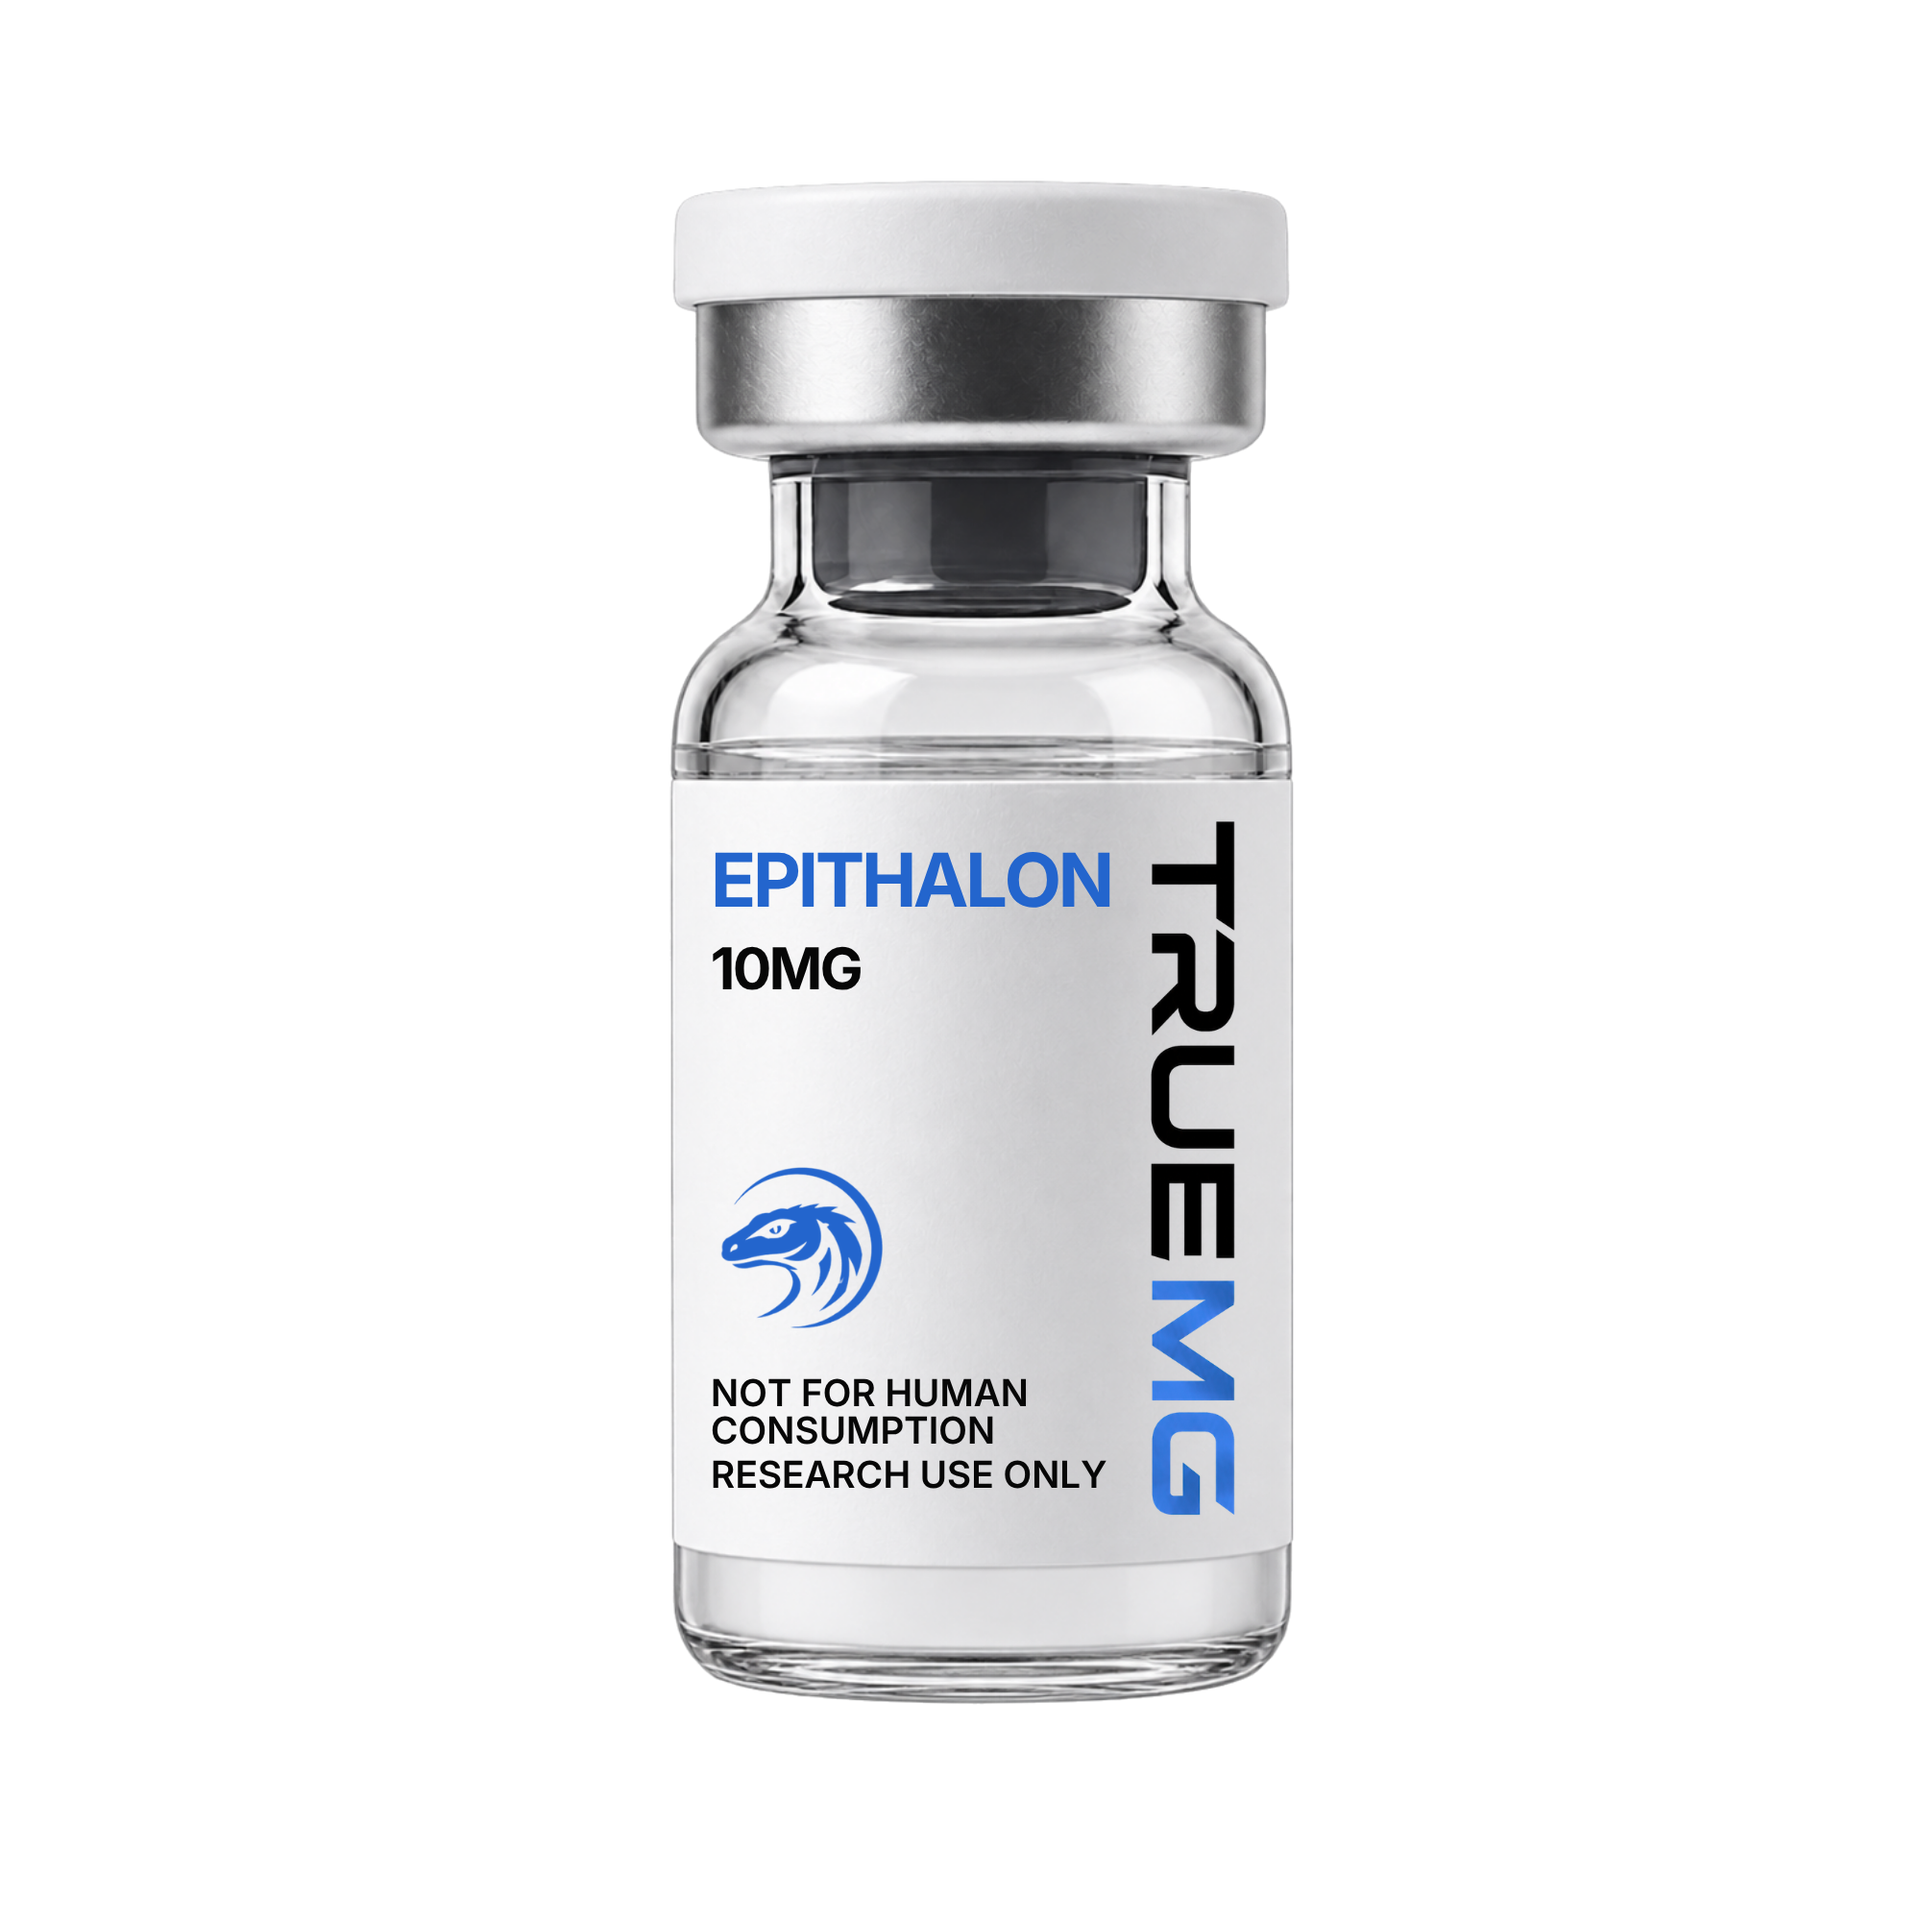
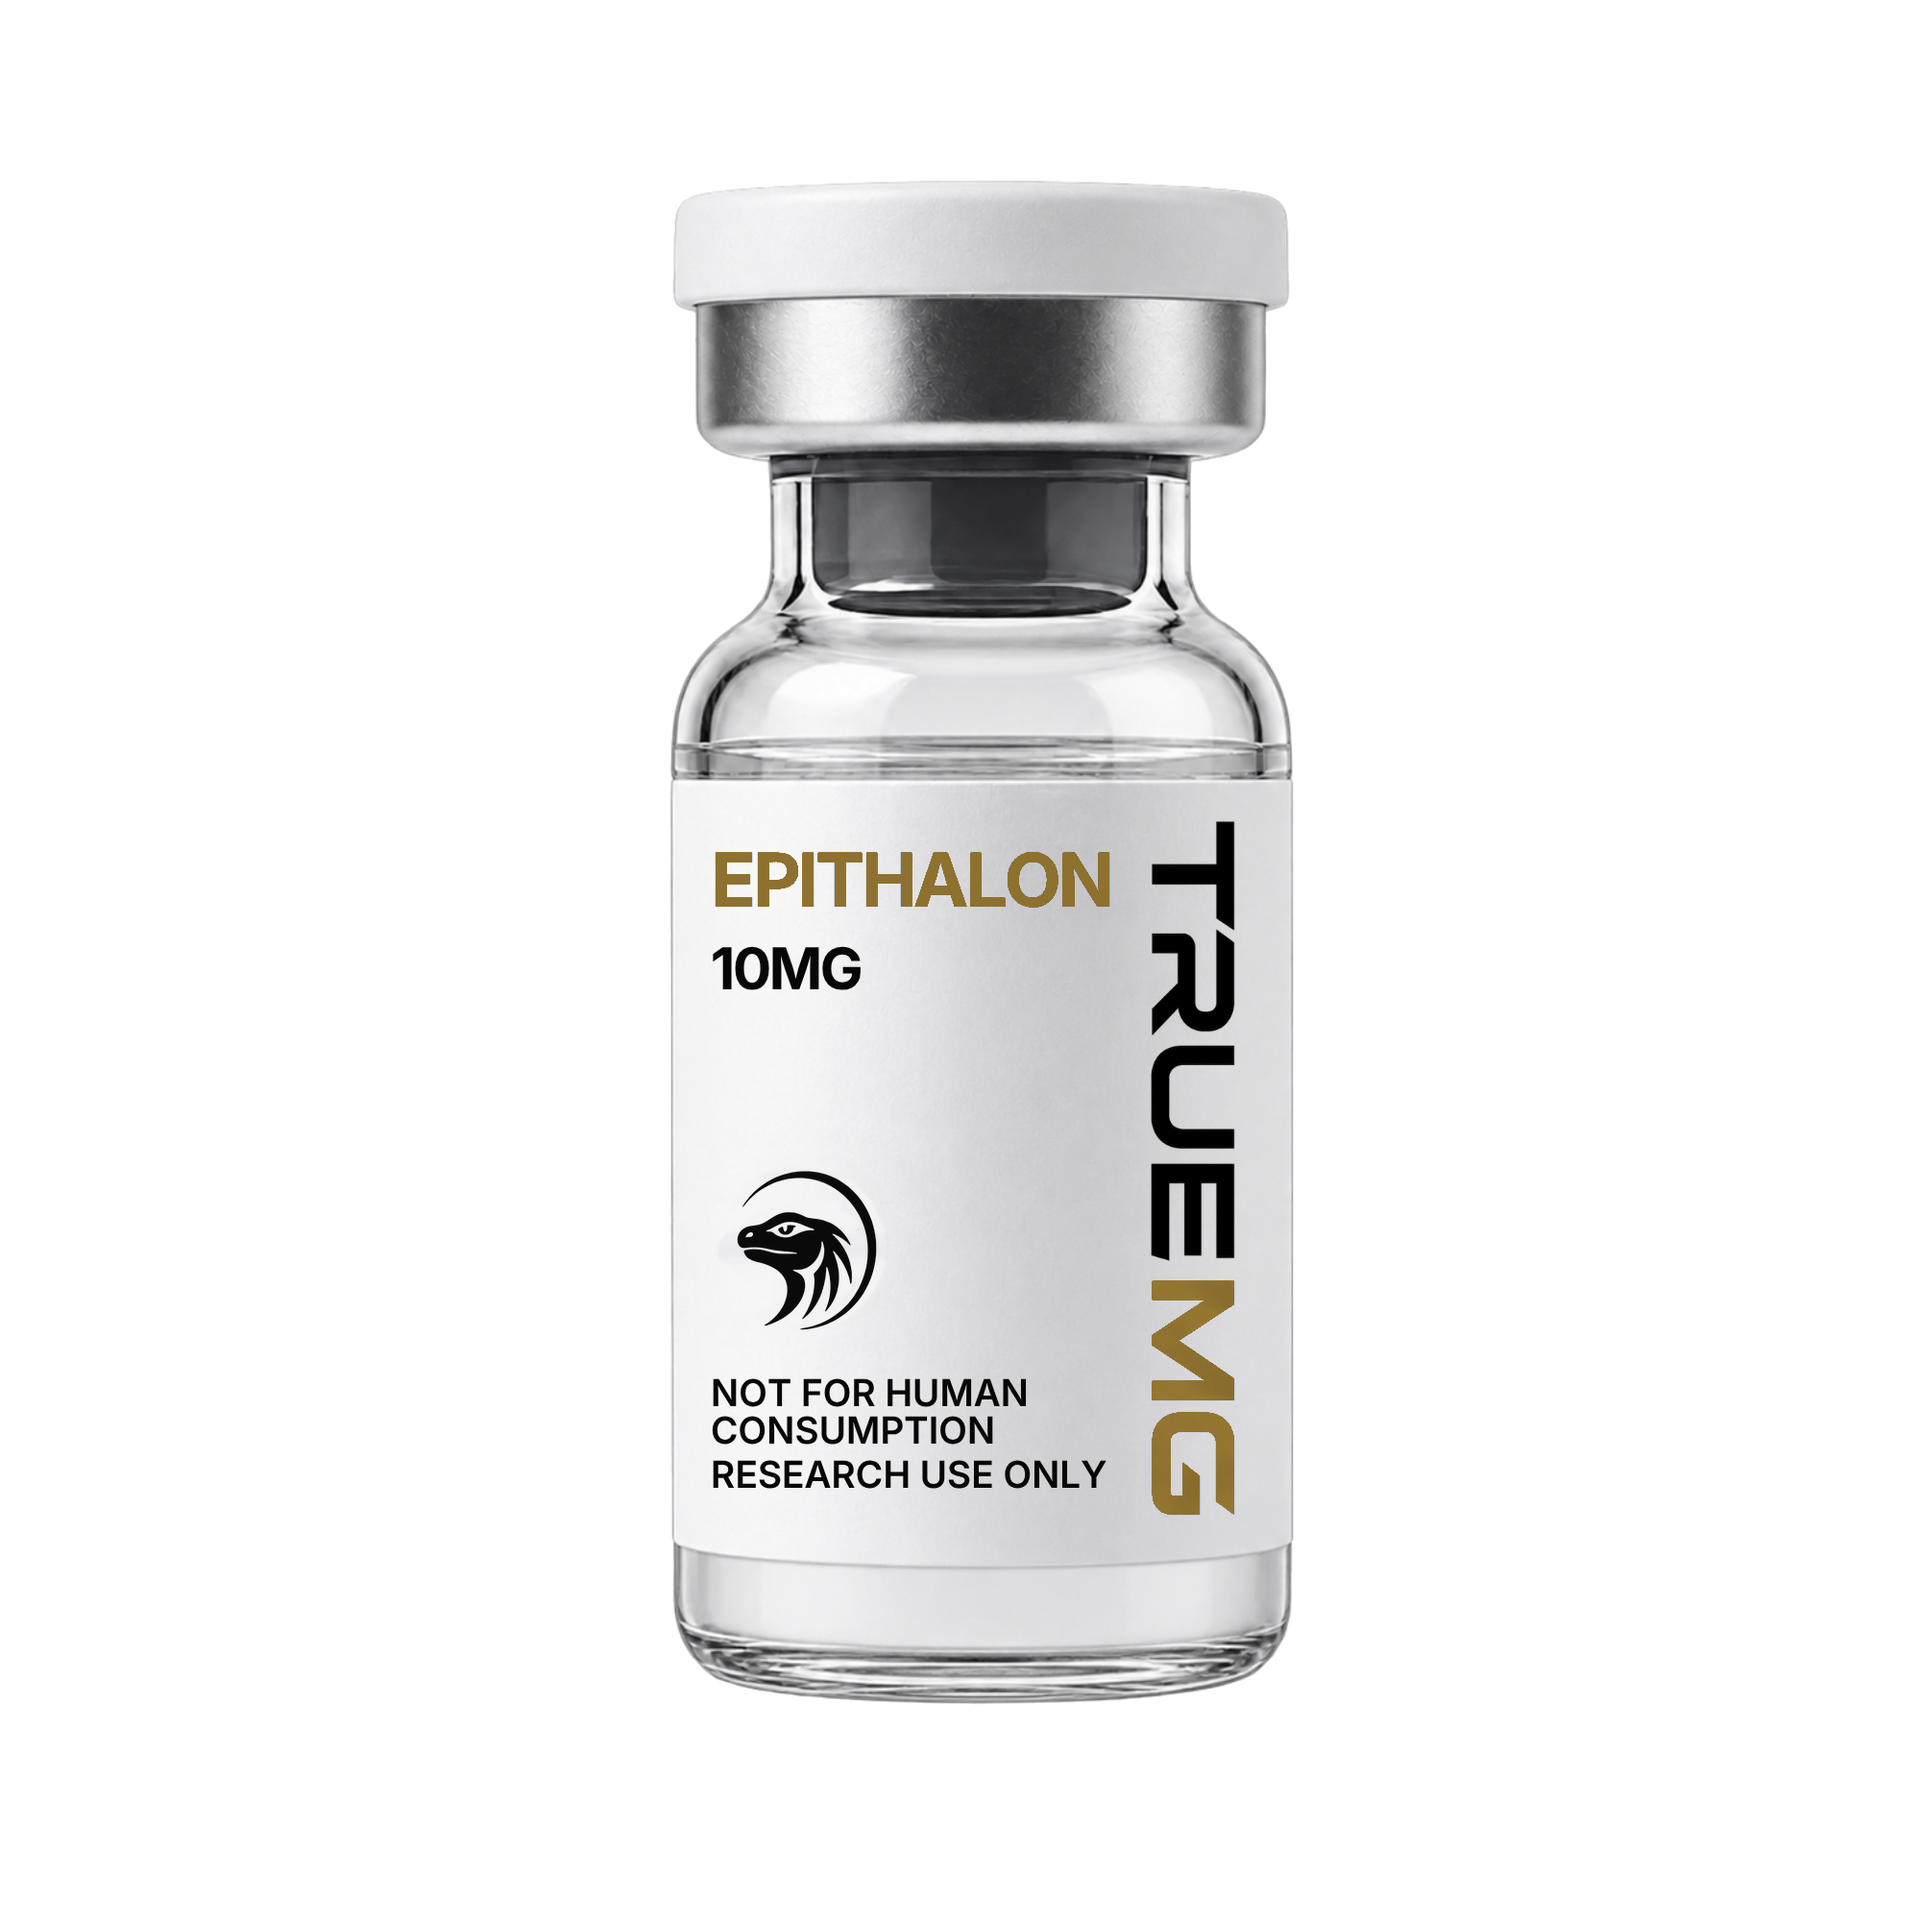
Strip the old blue brand off all 17 vial labels
The cutout pass removed the white background and left the label artwork
untouched, so every vial still carried the blue product name, the blue MG
and the old blue dragon. Shipping that was the miss; this fixes it.

`rebrand.py` recolours the blue type to #9C7C34, the brand's gold for a
paper ground, preserving each pixel's lightness so anti-aliased letter
edges stay smooth. It erases the old dragon by reconstructing its pixels
row by row from the label stock either side — the label carries a soft
vertical gradient, so a flat median fill leaves a visible rectangle — then
feathers the seam. The new Gila mark is rendered from the logo SVG and
dropped into the space the old one held.

Verified: zero pixels matching the brand blue survive in any of the 17.

Recorded with it, because it matters more than the retouch: this fixes
the images on the website, not the labels on the bottles. If physical
vials are already printed in blue, the site would show a product that
does not match what ships — worse than an off-brand photo. And the real
deliverable is a label design file set for the actual die line, not a
retouched mockup. Both are owner decisions, neither is an agent job.

Claude-Session: https://claude.ai/code/session_01GVck48CzMY6cqm4QCmkhM1

Changed region(s): [[0.372, 0.434, 0.589, 0.496], [0.589, 0.651, 0.651, 0.806], [0.372, 0.589, 0.465, 0.713]]

diff --git a/truemg/assets/vials/rebrand.py b/truemg/assets/vials/rebrand.py
@@ -1,0 +1,65 @@
+import sys, os
+import numpy as np
+from scipy import ndimage
+from PIL import Image, ImageFilter
+
+GOLD_DEEP = np.array([156,124,52], float)   # #9C7C34 — the brand's accent ON PAPER
+LIZARD_BOX = (725, 1185, 950, 1420)         # old mark on the 2000px label, measured
+
+def blue_mask(a):
+    r,g,b = a[:,:,0].astype(int), a[:,:,1].astype(int), a[:,:,2].astype(int)
+    # the brand blue is strongly B-dominant; white, black and grey are not
+    return (b - r > 45) & (b - g > 25) & (b > 90)
+
+def rebrand(path, mark_img):
+    im  = Image.open(path).convert("RGBA")
+    a   = np.asarray(im).astype(np.uint8).copy()
+    rgb = a[:,:,:3]
+    blue = blue_mask(rgb)
+
+    x0,y0,x1,y1 = LIZARD_BOX
+    inbox = np.zeros(blue.shape, bool); inbox[y0:y1, x0:x1] = True
+
+    # 1. recolour the blue TYPE (product name, the MG) to the paper-ground gold,
+    #    keeping each pixel's own lightness so anti-aliased edges stay smooth
+    type_blue = blue & ~inbox
+    if type_blue.any():
+        lum = rgb[type_blue].astype(float).max(axis=1, keepdims=True) / 255.0
+        a[:,:,:3][type_blue] = np.clip(GOLD_DEEP * (0.55 + 0.45*lum), 0, 255).astype(np.uint8)
+
+    # 2. erase the old dragon. The label carries a soft vertical gradient, so a flat
+    #    median fill leaves a visible patch — reconstruct it row by row instead.
+    patch = rgb[y0:y1, x0:x1].copy()
+    oldmark = blue[y0:y1, x0:x1]
+    if oldmark.any():
+        grow = ndimage.binary_dilation(oldmark, iterations=4)
+        clean = ~grow
+        glob = (np.median(patch[clean].reshape(-1,3), axis=0)
+                if clean.any() else np.array([246,246,247], float))
+        for yy in range(patch.shape[0]):
+            row_clean = clean[yy]
+            if not grow[yy].any():
+                continue
+            src = patch[yy][row_clean]
+            fill = np.median(src, axis=0) if src.shape[0] >= 8 else glob
+            patch[yy][grow[yy]] = fill.astype(np.uint8)
+        # feather the seam so the reconstruction does not read as a rectangle
+        sm = np.asarray(Image.fromarray(patch).filter(ImageFilter.GaussianBlur(2.5))).astype(float)
+        w  = ndimage.gaussian_filter(grow.astype(float), 3.0)[..., None]
+        patch = np.clip(patch*(1-w) + sm*w, 0, 255).astype(np.uint8)
+        a[y0:y1, x0:x1, :3] = patch
+
+    # 3. drop the new mark into the space the old one occupied
+    out = Image.fromarray(a, "RGBA")
+    bw, bh = x1-x0, y1-y0
+    m = mark_img.resize((int(bw*0.94), int(bh*0.94)), Image.LANCZOS)
+    out.alpha_composite(m, (x0 + (bw-m.width)//2, y0 + (bh-m.height)//2))
+    return out
+
+if __name__ == "__main__":
+    D=os.path.dirname(os.path.abspath(__file__)); os.chdir(D)
+    mark = Image.open("mark-ink-600.png").convert("RGBA")
+    os.makedirs("cut/brand", exist_ok=True)
+    for f in sys.argv[1:]:
+        rebrand("cut/out/"+f, mark).save("cut/brand/"+f)
+        print("rebranded", f)

diff --git a/truemg/assets/vials/README.md b/truemg/assets/vials/README.md
@@ -48,3 +48,41 @@ It delivers **"clean images without white backdrops"**. It does not deliver
 is the next step and it is CSS: a cast shadow, a few degrees of rotation, a
 hover lift, a gold rim light. That works on these files now that they are
 transparent. Genuinely new renders — angled, floating, lit — are a later job.
+
+---
+
+# UPDATE — the labels still carried the old blue brand
+
+Removing the white background did nothing about what is **printed on the label**.
+The blue product name, the blue MG, and the old blue dragon mark were all inside
+the artwork, and the first pass shipped all three. Caught on review, fixed here.
+
+`rebrand.py` runs after `cutout.py` and does three things:
+
+1. **Recolours the blue type** — product name and the MG — to `#9C7C34`, the
+   brand's gold for a paper ground. Each pixel keeps its own lightness so
+   anti-aliased letter edges stay smooth instead of going chunky.
+2. **Erases the old dragon.** Its pixels are reconstructed row by row from the
+   label stock either side, because the label carries a soft vertical gradient
+   and a flat median fill leaves a visible rectangle. The seam is then feathered.
+3. **Drops the new Gila mark in**, rendered from `truemg/assets/logo/truemg-mark-ink.svg`,
+   centred in the space the old one occupied.
+
+Verified: **zero** pixels matching the brand blue survive in any of the 17.
+
+## The limit of this, stated plainly
+
+This fixes **the images on the website**. It does not change **the labels on the
+bottles**. These are product mockups, so retouching them is legitimate for a
+storefront — but if physical vials have already been printed with the blue
+label, the site would then show a product that does not match what ships, and
+that is a worse problem than an off-brand photo.
+
+Two things follow, and neither is an agent job:
+
+- **Confirm whether any labels are printed.** If they are, either the site keeps
+  the old artwork until stock turns over, or the labels get reprinted.
+- **The real deliverable is a label design file**, not a retouched mockup —
+  flat artwork in the brand, set for the actual die line, which a printer can
+  run. That is a separate piece of work and it should happen before any
+  significant print run.
